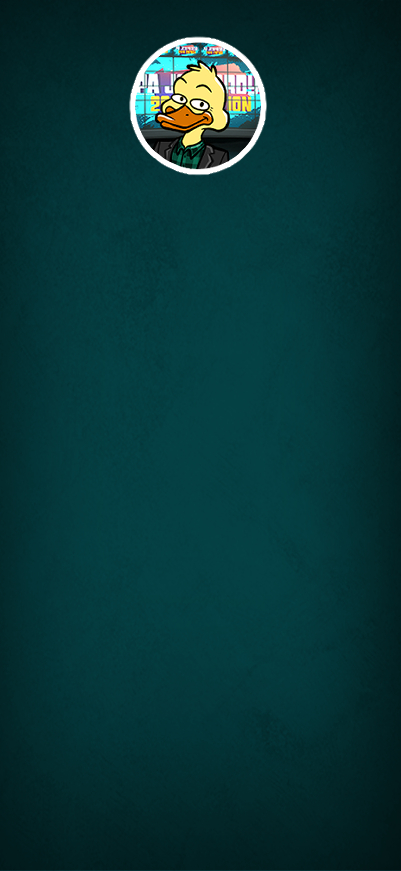
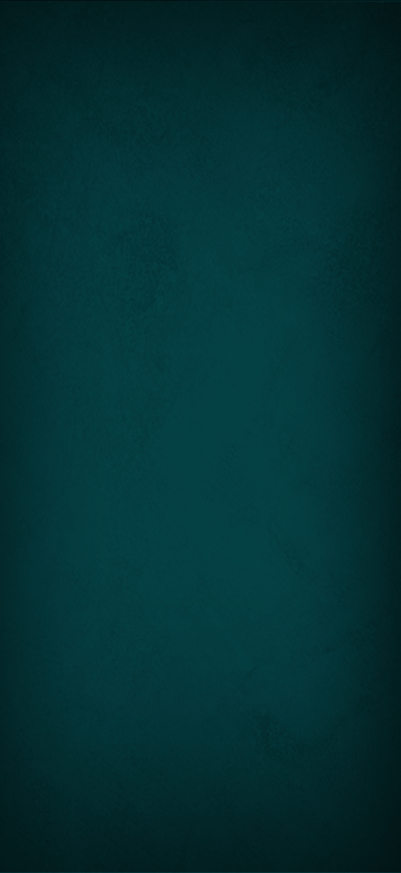
Phone BG Img

Changed region(s): [[0.2993, 0.031, 0.6883, 0.217]]

diff --git a/public/index.html b/public/index.html
@@ -325,7 +325,11 @@
     #waitingScreen {
         position: fixed;
         inset: 0;
-        background: black;
+        background-image: 
+            url('/backgrounds/WHostBG.jpg');
+        background-size: cover;
+        background-repeat: no-repeat;
+
         color: white;
 
         display: flex;
@@ -380,10 +384,10 @@
         position: fixed;
         inset: 0;
 
-        background: #1d39c4;
         background-image: 
             url('/backgrounds/WHostBG.jpg');
-
+        background-size: cover;
+        background-repeat: no-repeat;
 
         color: white;
 